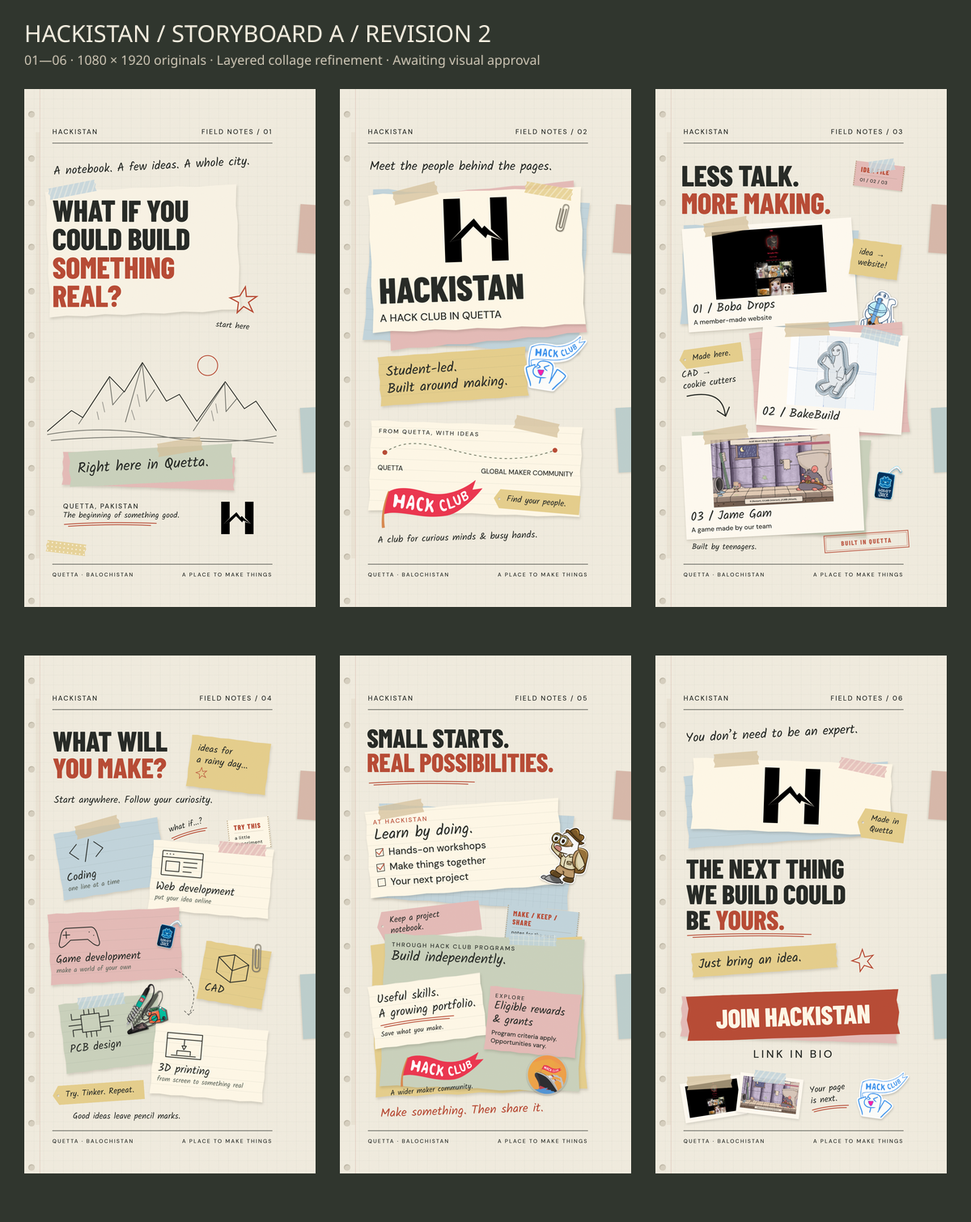
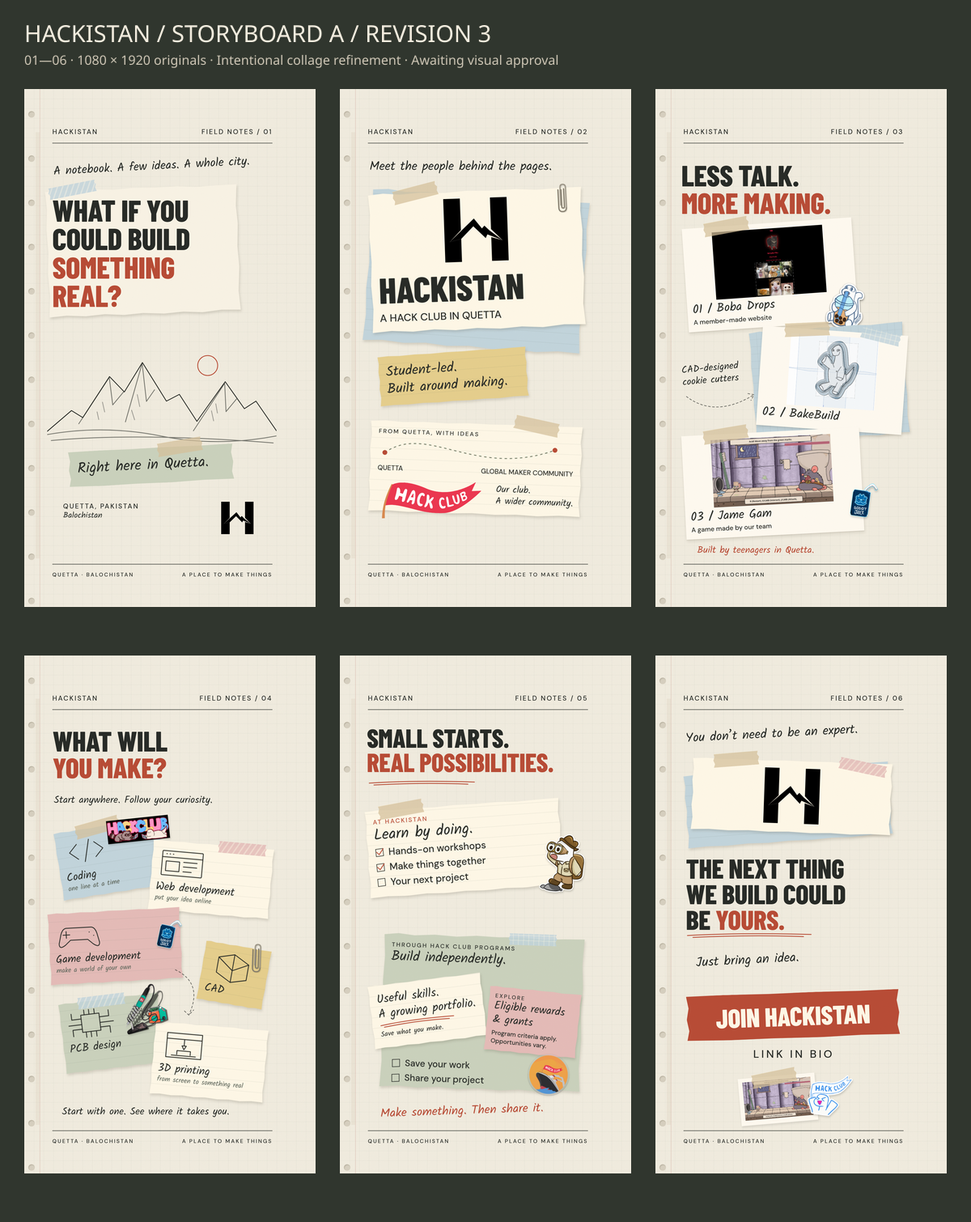
Refine storyboard collage placement and document sticker curation

diff --git a/video/src/scenes.tsx b/video/src/scenes.tsx
@@ -1,54 +1,55 @@
-import {Box,Hand,Tape,TornPaper,Mountains,Star,DrawnArrow,AssetSlot,PolaroidCard,Sketch,NotebookPage,Sticker,CheckItem,red,sage} from './components';
-import {Scrap,Washi,Clip,Stamp,Underline,Tag,PencilRoute,Ticket,colors} from './collage';
+import {Box,Hand,Tape,TornPaper,Mountains,AssetSlot,PolaroidCard,Sketch,NotebookPage,Sticker,CheckItem,red,sage} from './components';
+import {Scrap,Washi,Clip,Underline,PencilRoute,colors} from './collage';
 
 export const Hook=()=> <NotebookPage n={1}>
 <Box x={108} y={260} rotate={-3}><Hand size={44}>A notebook. A few ideas. A whole city.</Hand></Box>
 <Box x={85} y={365} w={710} rotate={-2}><Scrap color="#f9f3e5" height={470}/></Box><Washi x={88} y={352} w={180} rotate={-11} color={colors.blue}/>
 <Box x={104} y={395} w={810}><div className="display" style={{fontSize:112}}>WHAT IF YOU<br/>COULD BUILD<br/><span style={{color:red}}>SOMETHING<br/>REAL?</span></div></Box>
-<Box x={755} y={727} rotate={12}><Star size={110}/></Box><Box x={710} y={860} rotate={5}><Hand size={30}>start here</Hand></Box>
+
 <Box x={85} y={959} w={850}><Mountains/></Box>
-<Box x={141} y={1355} w={640} rotate={2}><Scrap color={colors.pink} height={123}/></Box>
+
 <Box x={165} y={1330} w={610} rotate={-3}><TornPaper color={sage}><Hand size={54}>Right here in Quetta.</Hand></TornPaper><Tape x={330}/></Box>
-<Box x={144} y={1530} w={460}><div className="label">QUETTA, PAKISTAN</div><Hand size={30}>The beginning of something good.</Hand><Underline width={350}/></Box>
-<Box x={670} y={1530} w={240}><AssetSlot asset="hackistan" label="Hackistan logo" height={120}/></Box><Washi x={80} y={1680} w={150} rotate={7} color={colors.yellow} pattern="dots"/>
+<Box x={144} y={1530} w={460}><div className="label">QUETTA, PAKISTAN</div><Hand size={30}>Balochistan</Hand></Box>
+<Box x={670} y={1530} w={240}><AssetSlot asset="hackistan" label="Hackistan logo" height={120}/></Box>
 </NotebookPage>;
 
 export const Meet=()=> <NotebookPage n={2}>
 <Box x={110} y={260}><Hand size={46}>Meet the people behind the pages.</Hand></Box>
 <Box x={103} y={394} w={805} rotate={4}><Scrap color={colors.blue} pattern="ruled" height={565}/></Box>
-<Box x={163} y={370} w={730} rotate={-5}><Scrap color={colors.pink} height={570}/></Box>
-<Box x={113} y={376} w={790} rotate={-2}><Scrap><AssetSlot asset="hackistan" label="Authentic Hackistan logo" height={235}/><div className="display" style={{fontSize:134,marginTop:24}}>HACKISTAN</div><div style={{fontSize:39,marginTop:18}}>A HACK CLUB IN QUETTA</div></Scrap><Tape x={90} rotate={-13}/><Washi x={580} y={-10} rotate={12} color={colors.yellow}/></Box>
-<Box x={805} y={420} rotate={14}><Clip/></Box>
+
+<Box x={113} y={376} w={790} rotate={-2}><Scrap><AssetSlot asset="hackistan" label="Authentic Hackistan logo" height={235}/><div className="display" style={{fontSize:134,marginTop:24}}>HACKISTAN</div><div style={{fontSize:39,marginTop:18}}>A HACK CLUB IN QUETTA</div></Scrap><Tape x={90} rotate={-13}/></Box>
+<Box x={805} y={346} rotate={-3}><Clip/></Box>
 <Box x={145} y={974} w={550} rotate={-4}><Scrap color={colors.yellow} pattern="ruled"><Hand size={51}>Student-led.<br/>Built around making.</Hand></Scrap></Box>
-<Box x={688} y={895} w={215} rotate={9}><Sticker asset="orpheus" label="Orphmoji Yippee" height={230}/></Box>
+
 <Box x={110} y={1240} w={785} rotate={2}><Scrap pattern="ruled" style={{padding:'25px 30px',height:336}}><div className="label" style={{fontSize:22}}>FROM QUETTA, WITH IDEAS</div><svg width="710" height="100" viewBox="0 0 710 100"><path d="M25 65C180-50 360 150 655 35" fill="none" stroke="#737b66" strokeWidth="3" strokeDasharray="9 10"/><circle cx="25" cy="65" r="9" fill={red}/><circle cx="655" cy="35" r="9" fill={red}/></svg><div style={{display:'flex',justifyContent:'space-between',fontSize:25}}><span>QUETTA</span><span>GLOBAL MAKER COMMUNITY</span></div></Scrap><Tape x={530} rotate={10}/></Box>
-<Box x={145} y={1455} w={390} rotate={-8}><AssetSlot asset="hackclub" label="Official Hack Club flag" height={155}/></Box>
-<Box x={570} y={1495} w={320} rotate={5}><Tag>Find your people.</Tag></Box>
-<Box x={140} y={1640} w={760} rotate={-2}><Hand size={35}>A club for curious minds & busy hands.</Hand></Box>
+<Box x={145} y={1455} w={390} rotate={-2}><AssetSlot asset="hackclub" label="Official Hack Club flag" height={130}/></Box>
+<Box x={578} y={1470} w={310} rotate={2}><Hand size={34}>Our club.<br/>A wider community.</Hand></Box>
+
 </NotebookPage>;
 
 export const Projects=()=> <NotebookPage n={3}>
-<Box x={96} y={267} w={810}><div className="display" style={{fontSize:109}}>LESS TALK.<br/><span style={{color:red}}>MORE MAKING.</span></div></Box><Box x={737} y={276} w={183} rotate={7}><Ticket title="IDEA FILE" detail="01 / 02 / 03" color={colors.pink}/></Box><Washi x={790} y={263} w={98} rotate={-8} color={colors.blue}/>
-<Box x={98} y={513} w={650} rotate={2}><Scrap color={colors.blue} height={370}/></Box>
+<Box x={96} y={267} w={810}><div className="display" style={{fontSize:109}}>LESS TALK.<br/><span style={{color:red}}>MORE MAKING.</span></div></Box>
+
 <Box x={110} y={497} w={630} rotate={-4}><PolaroidCard asset="boba" title="01 / Boba Drops" caption="A member-made website" height={250}/></Box>
-<Box x={725} y={565} w={180} rotate={8}><Scrap color={colors.yellow}><Hand size={31}>idea →<br/>website!</Hand></Scrap></Box>
-<Box x={758} y={735} w={145} rotate={12}><Sticker asset="bobaSticker" label="Boba Drops sticker" height={190}/></Box>
-<Box x={360} y={882} w={570} rotate={-4}><Scrap color={colors.pink} pattern="ruled" height={414}/></Box>
+
+<Box x={635} y={710} w={145} rotate={12}><Sticker asset="bobaSticker" label="Boba Drops sticker" height={190}/></Box>
+<Box x={360} y={882} w={570} rotate={-4}><Scrap color={colors.blue} pattern="grid" height={414}/></Box>
 <Box x={385} y={896} w={540} rotate={4}><PolaroidCard asset="bake" title="02 / BakeBuild" caption="" height={265}/></Box><Washi x={760} y={895} w={150} rotate={14} color={colors.blue} pattern="check"/>
-<Box x={103} y={953} w={235} rotate={-8}><Tag>Made here.</Tag><Hand size={34}>CAD →<br/>cookie cutters</Hand><DrawnArrow/></Box>
-<Box x={126} y={1285} w={665} rotate={3}><Scrap color={sage} height={362}/></Box>
+<Box x={104} y={1010} w={250} rotate={-5}><Hand size={36}>CAD-designed<br/>cookie cutters</Hand><PencilRoute w={275} h={130} d="M10 30Q110 120 260 45m-22-6 22 6-13 20"/></Box>
+
 <Box x={105} y={1270} w={660} rotate={-3}><PolaroidCard asset="jame" title="03 / Jame Gam" caption="A game made by our team" height={250}/></Box>
-<Box x={790} y={1370} w={130} rotate={8}><Sticker asset="godot" label="Godot Juice" height={175}/></Box>
-<Box x={625} y={1645} w={315} rotate={-4}><Stamp>BUILT IN QUETTA</Stamp></Box><Box x={135} y={1680}><Hand size={30}>Built by teenagers.</Hand></Box>
+<Box x={700} y={1435} w={130} rotate={8}><Sticker asset="godot" label="Godot Juice" height={175}/></Box>
+<Box x={155} y={1690}><Hand size={35} color={red}>Built by teenagers in Quetta.</Hand></Box>
 </NotebookPage>;
 
 const Idea=({kind,title,note,color=colors.ivory,height=250}:{kind:number;title:string;note?:string;color?:string;height?:number})=><Scrap color={color} pattern="ruled" height={height} style={{padding:23}}><Sketch kind={kind}/><Hand size={40}>{title}</Hand>{note?<Hand size={25} color="#5e665b">{note}</Hand>:null}</Scrap>;
 export const Create=()=> <NotebookPage n={4}>
 <Box x={105} y={265}><div className="display" style={{fontSize:105}}>WHAT WILL<br/><span style={{color:red}}>YOU MAKE?</span></div></Box>
-<Box x={610} y={309} w={295} rotate={7}><Scrap color={colors.yellow}><Hand size={35}>ideas for<br/>a rainy day...</Hand><Star size={45}/></Scrap></Box>
+
 <Box x={110} y={515}><Hand size={37}>Start anywhere. Follow your curiosity.</Hand></Box>
-<Box x={756} y={604} w={155} rotate={-6}><Ticket title="TRY THIS" detail="a little experiment"/></Box>
+
 <Box x={125} y={628} w={390} rotate={-9}><Idea kind={0} title="Coding" note="one line at a time" color={colors.blue} height={252}/><Tape x={80}/></Box>
+<Box x={307} y={600} w={230} rotate={-6}><Sticker asset="laptops" label="Orpheus and Heidi Laptops" height={90}/></Box>
 <Box x={468} y={700} w={448} rotate={5}><Idea kind={1} title="Web development" note="put your idea online" height={260}/><Washi x={240} y={-15} color={colors.pink}/></Box>
 <Box x={92} y={945} w={490} rotate={-3}><Idea kind={2} title="Game development" note="make a world of your own" color={colors.pink} height={265}/></Box>
 <Box x={476} y={955} w={110} rotate={12}><Sticker asset="godot" label="Godot Juice" height={150}/></Box>
@@ -56,25 +57,25 @@ export const Create=()=> <NotebookPage n={4}>
 <Box x={140} y={1270} w={370} rotate={-7}><Idea kind={4} title="PCB design" color={sage} height={260}/><Washi x={70} y={-15} color={colors.blue}/></Box>
 <Box x={475} y={1372} w={420} rotate={5}><Idea kind={5} title="3D printing" note="from screen to something real" height={270}/></Box>
 <Box x={346} y={1220} w={190} rotate={-13}><Sticker asset="solder" label="Soldering" height={180}/></Box>
-<Box x={538} y={610} rotate={-15}><Hand size={30}>what if...?</Hand><Underline width={140}/></Box>
+
 <Box x={555} y={1160}><PencilRoute w={150} h={195} d="M5 5Q110 55 55 173m-16-15 16 15 18-19"/></Box>
-<Box x={105} y={1585} w={340} rotate={-4}><Tag>Try. Tinker. Repeat.</Tag></Box>
-<Box x={180} y={1690}><Hand size={31}>Good ideas leave pencil marks.</Hand></Box>
+
+<Box x={140} y={1670}><Hand size={37}>Start with one. See where it takes you.</Hand></Box>
 </NotebookPage>;
 
 export const Opportunities=()=> <NotebookPage n={5}>
 <Box x={100} y={259} w={825}><div className="display" style={{fontSize:96}}>SMALL STARTS.<br/><span style={{color:red}}>REAL POSSIBILITIES.</span></div></Box><Box x={104} y={460}><Underline width={400}/></Box>
-<Box x={133} y={570} w={725} rotate={4}><Scrap color={colors.blue} pattern="grid" height={354}/></Box>
+
 <Box x={102} y={552} w={720} rotate={-4}><Scrap pattern="ruled"><div className="label" style={{color:red,fontSize:23}}>AT HACKISTAN</div><Hand size={56}>Learn by doing.</Hand><div style={{fontSize:36,lineHeight:1.55}}><CheckItem checked>Hands-on workshops</CheckItem><CheckItem checked>Make things together</CheckItem><CheckItem>Your next project</CheckItem></div></Scrap><Tape x={50}/></Box>
-<Box x={755} y={625} w={175} rotate={12}><Sticker asset="journal" label="Journpheus" height={240}/></Box>
-<Box x={137} y={930} w={385} rotate={-7}><Tag color={colors.pink}>Keep a project notebook.</Tag></Box>
-<Box x={615} y={938} w={267} rotate={6}><Ticket title="MAKE / KEEP / SHARE" detail="notes for the next project" color={colors.blue}/></Box>
-<Box x={123} y={1055} w={785} rotate={-2}><Scrap color={colors.yellow} height={570}/></Box>
+<Box x={742} y={660} w={175} rotate={6}><Sticker asset="journal" label="Journpheus" height={225}/></Box>
+
+
+
 <Box x={156} y={1040} w={742} rotate={2}><Scrap color={sage} height={570}><div className="label" style={{fontSize:22}}>THROUGH HACK CLUB PROGRAMS</div><Hand size={50}>Build independently.</Hand></Scrap><Washi x={460} y={-14} color={colors.blue} pattern="check"/></Box>
 <Box x={115} y={1200} w={420} rotate={-7}><Scrap pattern="ruled" height={235}><Hand size={44}>Useful skills.<br/>A growing portfolio.</Hand><Underline width={280}/><Hand size={26}>Save what you make.</Hand></Scrap></Box>
 <Box x={545} y={1240} w={340} rotate={6}><Scrap color={colors.pink} height={238} style={{padding:22}}><div className="label" style={{fontSize:20}}>EXPLORE</div><Hand size={40}>Eligible rewards<br/>& grants</Hand><div style={{fontSize:23,marginTop:9}}>Program criteria apply.<br/>Opportunities vary.</div></Scrap></Box>
-<Box x={182} y={1475} w={395} rotate={-5}><AssetSlot asset="hackclub" label="Hack Club flag" height={110}/><Hand size={27}>A wider maker community.</Hand></Box>
-<Box x={683} y={1465} w={170} rotate={8}><Sticker asset="ship" label="Ship" height={180}/></Box>
+<Box x={190} y={1490} w={435} rotate={2} style={{fontSize:34,lineHeight:1.6}}><CheckItem>Save your work</CheckItem><CheckItem>Share your project</CheckItem></Box>
+<Box x={688} y={1465} w={170} rotate={8}><Sticker asset="ship" label="Ship" height={180}/></Box>
 <Box x={150} y={1660} w={650} rotate={-2}><Hand size={45} color={red}>Make something. Then share it.</Hand></Box>
 </NotebookPage>;
 
@@ -82,14 +83,12 @@ export const Join=()=> <NotebookPage n={6}>
 <Box x={112} y={263} rotate={-3}><Hand size={47}>You don’t need to be an expert.</Hand></Box>
 <Box x={112} y={419} w={760} rotate={-4}><Scrap color={colors.blue} pattern="ruled" height={270}/></Box>
 <Box x={135} y={390} w={740} rotate={2}><Scrap><AssetSlot asset="hackistan" label="Authentic Hackistan logo" height={205}/></Scrap><Tape x={75}/><Washi x={540} y={-6} color={colors.pink} rotate={10}/></Box>
-<Box x={748} y={575} w={180} rotate={8}><Tag>Made in Quetta</Tag></Box>
+
 <Box x={113} y={740} w={810}><div className="display" style={{fontSize:101}}>THE NEXT THING<br/>WE BUILD COULD<br/>BE <span style={{color:red}}>YOURS.</span></div><Underline width={470}/></Box>
-<Box x={134} y={1085} w={540} rotate={-4}><Scrap color={colors.yellow} style={{padding:'15px 25px'}}><Hand size={48}>Just bring an idea.</Hand></Scrap></Box><Box x={723} y={1085}><Star size={90}/></Box>
-<Box x={94} y={1276} w={805} rotate={2}><Scrap color={colors.pink} height={150}/></Box>
+<Box x={150} y={1100} rotate={-3}><Hand size={48}>Just bring an idea.</Hand></Box>
+
 <Box x={116} y={1250} w={788} rotate={-2}><TornPaper color={red} style={{padding:'38px 28px',textAlign:'center'}}><div className="display" style={{fontSize:98,color:'#fff8e7'}}>JOIN HACKISTAN</div></TornPaper></Box>
 <Box x={288} y={1450} w={450}><div style={{fontSize:41,letterSpacing:8,textAlign:'center'}}>LINK IN BIO</div></Box>
-<Box x={100} y={1570} w={230} rotate={-9} style={{padding:12,background:'#fffaf0',boxShadow:'2px 5px 8px #282b2720'}}><Tape x={25} y={-16} rotate={5}/><AssetSlot asset="boba" label="Project photo" height={118}/></Box>
-<Box x={306} y={1558} w={235} rotate={7} style={{padding:12,background:'#fffaf0',boxShadow:'2px 5px 8px #282b2720'}}><AssetSlot asset="jame" label="Jame Gam photo" height={118}/><Washi x={50} y={-15} color={colors.blue} w={120}/></Box>
-<Box x={750} y={1530} w={180} rotate={8}><Sticker asset="orpheus" label="Orpheus" height={190}/></Box>
-<Box x={575} y={1585} w={150} rotate={-6}><Hand size={32}>Your page<br/>is next.</Hand><Underline width={140}/></Box>
+<Box x={312} y={1558} w={285} rotate={-5} style={{padding:14,background:'#fffaf0',boxShadow:'2px 5px 8px #282b2720'}}><AssetSlot asset="jame" label="Jame Gam photo" height={142}/><Tape x={50} y={-19}/></Box>
+<Box x={567} y={1540} w={155} rotate={8}><Sticker asset="orpheus" label="Orpheus" height={175}/></Box>
 </NotebookPage>;

diff --git a/video/src/components.tsx b/video/src/components.tsx
@@ -6,7 +6,7 @@ export const Box=({x=0,y=0,w,rotate=0,children,style={}}:{x?:number;y?:number;w?
 export const Hand=({children,size=40,color=ink}:{children:React.ReactNode;size?:number;color?:string})=><div className="hand" style={{fontSize:size,color}}>{children}</div>;
 export const Tape=({x=0,y=-24,rotate=-7}:{x?:number;y?:number;rotate?:number})=><Box x={x} y={y} w={170} rotate={rotate} style={{height:52,background:'#d6c29cbb',clipPath:'polygon(2% 0,98% 3%,96% 25%,100% 45%,97% 70%,99% 100%,0 96%,3% 72%,0 46%,3% 21%)',borderTop:'1px solid #f6e6bf'}}/>;
 export const PaperTexture=()=> <svg className="grain" width="1080" height="1920"><filter id="grain"><feTurbulence type="fractalNoise" baseFrequency=".65" numOctaves="3" seed="17" stitchTiles="stitch"/></filter><rect width="100%" height="100%" filter="url(#grain)" opacity=".45"/></svg>;
-export const NotebookPage=({n,children}:{n:number;children:React.ReactNode})=><AbsoluteFill className="page grid"><div style={{position:'absolute',left:57,top:0,height:'100%',borderLeft:'2px solid #bd716740'}}/>{Array.from({length:12},(_,i)=><div key={i} style={{position:'absolute',left:15,top:82+i*164,width:24,height:24,borderRadius:20,background:'#d7d0c0',boxShadow:'inset 2px 3px 3px #71665140'}}/>)}<div style={{position:"absolute",left:1018,top:430,width:110,height:180,rotate:"4deg",background:"#d8b9aa",boxShadow:"-3px 3px 6px #40301b24"}}/><div style={{position:"absolute",left:1028,top:1180,width:90,height:240,rotate:"-3deg",background:"#becfcd",boxShadow:"-3px 3px 6px #40301b24"}}/><div style={{position:"absolute",left:42,top:160,width:15,height:1580,background:"#a88d6e15"}}/><Box x={104} y={142} w={816}><div className="label">HACKISTAN <span style={{float:'right'}}>FIELD NOTES / 0{n}</span></div><div className="rule" style={{marginTop:24}}/></Box>{children}<Box x={104} y={1760} w={816}><div className="rule"/><div className="label" style={{marginTop:24,fontSize:20}}>QUETTA · BALOCHISTAN <span style={{float:'right'}}>A PLACE TO MAKE THINGS</span></div></Box><PaperTexture/></AbsoluteFill>;
+export const NotebookPage=({n,children}:{n:number;children:React.ReactNode})=><AbsoluteFill className="page grid"><div style={{position:'absolute',left:57,top:0,height:'100%',borderLeft:'2px solid #bd716740'}}/>{Array.from({length:12},(_,i)=><div key={i} style={{position:'absolute',left:15,top:82+i*164,width:24,height:24,borderRadius:20,background:'#d7d0c0',boxShadow:'inset 2px 3px 3px #71665140'}}/>)}<div style={{position:"absolute",left:42,top:160,width:15,height:1580,background:"#a88d6e15"}}/><Box x={104} y={142} w={816}><div className="label">HACKISTAN <span style={{float:'right'}}>FIELD NOTES / 0{n}</span></div><div className="rule" style={{marginTop:24}}/></Box>{children}<Box x={104} y={1760} w={816}><div className="rule"/><div className="label" style={{marginTop:24,fontSize:20}}>QUETTA · BALOCHISTAN <span style={{float:'right'}}>A PLACE TO MAKE THINGS</span></div></Box><PaperTexture/></AbsoluteFill>;
 export const TornPaper=({children,color='#faf6ea',style={}}:{children:React.ReactNode;color?:string;style?:React.CSSProperties})=><div className="paper" style={{background:color,padding:32,clipPath:'polygon(0 1%,18% 0,39% 1%,60% 0,82% 1%,100% 0,99% 24%,100% 51%,99% 78%,100% 99%,82% 98%,63% 100%,40% 99%,20% 100%,0 98%,1% 77%,0 52%,1% 27%)',...style}}>{children}</div>;
 export const Mountains=()=> <svg width="100%" viewBox="0 0 850 380" fill="none" stroke={ink} strokeWidth="3" strokeLinecap="round" strokeLinejoin="round"><path d="M0 310 90 233 132 259 231 107 286 164 353 55 442 198 490 173 555 273 660 126 731 226 774 198 850 308"/><path d="m117 282 113-172 13 102 40-48m7 111 62-217 16 141 30-43m144 152 116-176 5 105 39-47M0 322q211-37 420 5t430 0M15 344q330-30 823 9" opacity=".6"/><path d="m205 202 8 36m-28 0 6 28m143-92 9 44m-30 14 11 35m301-59 6 34m-22-8 8 37" opacity=".4"/><circle cx="595" cy="66" r="37" stroke={red}/></svg>;
 export const Star=({size=90}:{size?:number})=><svg width={size} height={size} viewBox="0 0 100 100"><path d="m49 5 10 31 34-7-23 25 21 28-34-11-17 25-3-35-31-9 31-13Z" fill="none" stroke={red} strokeWidth="4"/></svg>;

diff --git a/docs/STICKER_CURATION.md b/docs/STICKER_CURATION.md
@@ -1,0 +1,48 @@
+# Sticker curation — Revision 3
+
+## Acquisition status
+
+**14 selected options: 10 existing user-supplied originals, 4 pending acquisition, 0 newly downloaded files.** The review sheet is explicitly labeled with this status. No catalog screenshots, thumbnails, redrawn stickers or fabricated substitutes were used.
+
+The requested official catalog is https://stickers.hackclub.com/catalog. Fresh sandbox and executor requests returned cloud-proxy HTTP 403 (`CONNECT tunnel failed`) after the custom domain was saved in the environment draft and the user authorized access. The running environment status still reported an enforced policy with no custom host entries. Authorization is recorded; runtime propagation remains the blocker. No access restriction was bypassed.
+
+The publicly accessible [Hack Club StickersV1 README](https://github.com/hackclub/StickersV1/blob/main/README.md) identifies itself as a former official site implementation and documents the public `/api/stickers` endpoint. It points to `hackclub/stickers`, which returned repository-not-found during this inspection. No sticker image URL or artwork license could be verified through that source. No authentication credentials were requested or used.
+
+**Usage/permission note:** the user supplied the current artwork for this storyboard. That does not establish an artwork license for public distribution. Explicit reuse terms for the sticker illustrations have not been verified. Confirm applicable permission with Hack Club/artists before final publication; do not treat an application's source-code license as an artwork license. This flag applies to every candidate below.
+
+New official downloads belong in `public/assets/stickers/catalog/`. That folder currently contains only an explanatory README. Existing files remain in their original curated folders and have not been relabeled as downloads.
+
+## Candidates
+
+| Candidate | Current file / source | Recommended placement | Status |
+|---|---|---|---|
+| Orpheus and Heidi Laptops | [Orpheus and Heidi Laptops.webp](../public/assets/stickers/Orpheus%20and%20Heidi%20Laptops.webp) · [original user upload](https://github.com/WockoPayaz/hackistan-intro-reel/blob/07f7dec/public/assets/Orpheus%20and%20Heidi%20Laptops.webp) | 04 · coding / web | user-supplied; catalog verification pending |
+| Godot Juice | [Godot Juice.webp](../public/assets/stickers/Godot%20Juice.webp) · [original user upload](https://github.com/WockoPayaz/hackistan-intro-reel/blob/07f7dec/public/assets/Godot%20Juice.webp) | 03 / 04 · games | user-supplied; catalog verification pending |
+| Boba Drops | [Boba Drops.webp](../public/assets/stickers/Boba%20Drops.webp) · [original user upload](https://github.com/WockoPayaz/hackistan-intro-reel/blob/07f7dec/public/assets/Boba%20Drops.webp) | 03 · website | user-supplied; catalog verification pending |
+| Soldering | [Soldering.webp](../public/assets/stickers/Soldering.webp) · [original user upload](https://github.com/WockoPayaz/hackistan-intro-reel/blob/07f7dec/public/assets/Soldering.webp) | 04 · electronics | user-supplied; catalog verification pending |
+| Orpheus Skateboarding PCB | [Official catalog](https://stickers.hackclub.com/catalog); exact asset URL unverified | 04 · PCB alternative | awaiting catalog access or manual download |
+| Construct Orpheus | [Official catalog](https://stickers.hackclub.com/catalog); exact asset URL unverified | 04 · physical making | awaiting catalog access or manual download |
+| Journpheus | [Journpheus.webp](../public/assets/stickers/Journpheus.webp) · [original user upload](https://github.com/WockoPayaz/hackistan-intro-reel/blob/07f7dec/public/assets/Journpheus.webp) | 05 · project notebook | user-supplied; catalog verification pending |
+| Ship | [ship.webp](../public/assets/stickers/ship.webp) · [original user upload](https://github.com/WockoPayaz/hackistan-intro-reel/blob/07f7dec/public/assets/ship.webp) | 05 · share checklist | user-supplied; catalog verification pending |
+| Orphmoji Yippee | [orphmoji yippee.webp](../public/assets/stickers/orphmoji%20yippee.webp) · [original user upload](https://github.com/WockoPayaz/hackistan-intro-reel/blob/07f7dec/public/assets/orphmoji%20yippee.webp) | 06 · familiar character | user-supplied; catalog verification pending |
+| Orpheus Flag | [flag-orpheus-left.png](../public/assets/stickers/flag-orpheus-left.png) · [original user upload](https://github.com/WockoPayaz/hackistan-intro-reel/blob/07f7dec/public/assets/flag-orpheus-left.png) | 02 · flag alternative | user-supplied; catalog verification pending |
+| Game Lab | [Official catalog](https://stickers.hackclub.com/catalog); exact asset URL unverified | 04 · game alternative | awaiting catalog access or manual download |
+| Coding with Balloon | [Official catalog](https://stickers.hackclub.com/catalog); exact asset URL unverified | 04 · coding alternative | awaiting catalog access or manual download |
+| Nest Hatched Smolpheus | [Nest Hatched Smolpheus.webp](../public/assets/stickers/Nest%20Hatched%20Smolpheus.webp) · [original user upload](https://github.com/WockoPayaz/hackistan-intro-reel/blob/07f7dec/public/assets/Nest%20Hatched%20Smolpheus.webp) | 06 · optional beginner motif | user-supplied; catalog verification pending |
+| Pathfinder Orpheus | [Pathfinder Orpheus.png](../public/assets/stickers/Pathfinder%20Orpheus.png) · [original user upload](https://github.com/WockoPayaz/hackistan-intro-reel/blob/07f7dec/public/assets/Pathfinder%20Orpheus.png) | 05 · optional exploration motif | user-supplied; catalog verification pending |
+
+## Selection discipline
+
+Only relevant supplied artwork is placed: Boba with its website, Godot at the game/photo border, the laptops on the coding note, soldering at the PCB note, Journpheus holding the workshop checklist edge, Ship next to save/share tasks, and Yippee touching the final project callback. The official Hack Club flag appears once, in scene 2. Alternatives on this sheet are not automatically added to the pages.
+
+The selected images preserve original colors, proportions and transparency. Shadows and rotation are composition styles; no source images were modified. Jame Gam's low-resolution screenshot is a separate project-media limitation.
+
+## Once catalog access applies
+
+1. Load the catalog or its documented public API once; inspect the selected entries and their usage terms.
+2. Resolve full original download URLs for the short list only. Request any necessary CDN domains through settings; never bypass restrictions.
+3. Save usable original PNG/WebP/SVG files under `public/assets/stickers/catalog/`, retaining attribution and per-file source URLs, dimensions and hashes.
+4. Mark unavailable originals for manual download; do not use catalog screenshots or thumbnail upscales.
+5. Regenerate the candidate sheet and compare replacement artwork before changing scene placements.
+
+[Candidate sheet](../output/stickers/candidate-sheet.png) · [Machine-readable provenance](../output/stickers/candidates.json)

diff --git a/docs/DECORATION_AUDIT.md b/docs/DECORATION_AUDIT.md
@@ -1,0 +1,18 @@
+# Revision 3 — purpose and placement audit
+
+Reviewed the previous six frames, current scene code and all three supplied reference photographs before changes. The references support objects attached at their edges, concise context around photographs, and deliberate overlap. They do not justify filling every blank space.
+
+## Shared materials
+
+Graph paper, grain, punched margin and page folio establish the same notebook. Removed both repeated right-edge colored tabs from the shared page component. Paper shadows follow individual objects. Source artwork remains unchanged. Tape crosses paper edges; no tape is added as an isolated flourish. Paper clips straddle a paper edge. Decorative opacity never controls essential text.
+
+| Page | Retained elements and purpose | Removed or corrected |
+|---|---|---|
+| 1 — minimal hook | Taped headline sheet establishes focus; Quetta mountain drawing locates the story; taped location label and authentic H reinforce place/identity. | Removed floating star/start-here note, loose dotted washi, pink location backing, generic tiny slogan and extra underline. |
+| 2 — logo focus | One ruled backing sheet is clipped behind the identity sheet; a student-led note explains the club; a taped connection insert carries the single official flag and community context. | Removed extra pink backing, redundant character/flag repetition, surplus logo-sheet tape, filler tag and footer slogan. Clip moved to top edge to physically join the sheets. |
+| 3 — real projects | Three taped Polaroids remain dominant. Boba overlaps the website's right paper margin; Godot touches the game border. Drafting-grid paper belongs behind the CAD screenshot; the CAD annotation points right toward BakeBuild. | Removed IDEA FILE ticket, its tape, idea-to-website filler memo, repeated photo backing colors, redundant Made here tag and stamp. No sticker covers project image content. |
+| 4 — brainstorming | Coding, web, game, CAD, PCB and printing retain different paper sizes. Laptops attach to the coding note's upper edge, Godot sits on the game note, soldering touches PCB paper. Tape anchors code/web/PCB sheets; clip holds CAD. Pencil route connects related making topics. | Removed rainy-day memo, TRY THIS ticket, what-if underline, repeated slogan tag and decorative filler. Retained only useful captions and one invitation at the foot. |
+| 5 — plans and opportunities | Workshop checklist is held by tape, with Journpheus on its outside edge. Program grouping contains skills/portfolio and eligibility notes; Ship is adjacent to save/share tasks. Essential qualifications remain visible. | Removed extra blue/yellow backing sheets, generic notebook tag, MAKE/KEEP/SHARE ticket and redundant Hack Club flag. Local activities and wider programs remain clearly separated. |
+| 6 — clean closing | Taped logo with one backing sheet, bold message, plain handwritten invitation, red CTA and link-in-bio. A single taped Jame Gam photo and familiar Orpheus form one callback cluster. | Removed location tag, floating star, yellow invitation scrap, pink CTA backing, second project photo and filler “Your page is next” note. |
+
+Density: minimal opening → moderate identity → rich project evidence → energetic ideas → organized plans → clean closing. No Phase B timing or animation has been added.

diff --git a/README.md b/README.md
@@ -1,10 +1,10 @@
 # Hackistan — scrapbook reel
 
-**Phase A, revision 2: awaiting storyboard approval.** Six static designs, not the final animated video. All work is on `feature/hackistan-intro-reel`; nothing is merged into main.
+**Phase A, revision 3: awaiting storyboard approval.** Six static designs, not the final animated video. All work is on `feature/hackistan-intro-reel`; nothing is merged into main.
 
 ## Review in Chrome
 
-**Rendered and inspected:** the revised six PNGs and contact sheet are available below. This pass adds layered torn papers, patterned washi, handwritten tags, larger project images, an organic idea board and a redesigned opportunities collage.
+**Rendered and inspected:** the revised six PNGs and contact sheet are available below. This pass removes repeated edge tabs and filler, anchors tape to objects, connects stickers to specific content, and gives the opening and closing more breathing room.
 
 Open [the contact sheet](output/storyboards/contact-sheet.png), then tap a full-size page:
 
@@ -47,3 +47,5 @@ The fonts are self-hosted through npm: Barlow Condensed (display), Kalam (annota
 The original narration and 7/8/13/12/12/8-second scene plan are preserved in `video/src/config.ts`. After approval, implement the six-scene 1800-frame timeline at 30 FPS, physical paper transitions and optional user-supplied audio/captions. Attempt cloud H.264 MP4 rendering with AAC when audio is supplied. Verify dimensions, duration, encoding and actual file existence. If cloud video rendering is unreliable, add a manually triggered GitHub Actions render workflow with a downloadable artifact. No final MP4 or Phase B workflow is claimed in Phase A.
 
 [Art direction and motion plan](docs/STORYBOARD.md) · [Validation](docs/VALIDATION.md)
+
+[Sticker curation and access status](docs/STICKER_CURATION.md) · [Sticker candidate sheet](output/stickers/candidate-sheet.png) · [Decoration audit](docs/DECORATION_AUDIT.md)

diff --git a/docs/VALIDATION.md b/docs/VALIDATION.md
@@ -25,3 +25,13 @@ Reproduce from `video/`: `npm ci`, `npm run typecheck`, `npm run storyboards`. T
 - Reusable `Scrap`, `Washi`, `Clip`, `Stamp`, `Underline`, `Tag` and `PencilRoute` components add deterministic, static collage materials. No original uploaded image files changed.
 - The three reference images arrived in remote commit `aa89cc3` during work. The local refinement commit was rebased onto those uploads without changing them. All three were visually studied, and original ticket fragments were added to scenes 3–5 to complement the layered paper and sticker arrangements. Jame Gam retains the supplied low-resolution screenshot.
 - No Phase B animation, MP4 or merge into main.
+
+
+## Revision 3 — 14 November 2026
+
+- TypeScript and six-page Chromium render passed after the intentional-decoration pass.
+- All six final frames and the contact sheet were visually inspected for clipping, typography, project visibility, purposeful overlaps and notebook continuity. The separate candidate sheet was also inspected.
+- Removed shared edge tabs, unattached tape, filler tickets and redundant repeated logo/decorations; see `DECORATION_AUDIT.md` for scene-by-scene reasoning.
+- Catalog acquisition remains blocked by cloud-proxy 403 despite saved domain and user authorization. Running policy has not applied the domain. `STICKER_CURATION.md` records exact limits and usage-rights uncertainty.
+- Candidate sheet explicitly distinguishes 10 existing supplied originals, 4 pending artwork slots, and zero new downloads. This is not a claimed successful catalog acquisition.
+- Original image assets remain unchanged. No animation, MP4 or main-branch merge.

diff --git a/docs/ASSETS.md b/docs/ASSETS.md
@@ -27,3 +27,7 @@ No required logo or project placeholder remains in the rendered pages. The reusa
 Jame Gam is low resolution and is displayed with its original framing. A larger original would improve final-video clarity. Small text within project screenshots is documentary detail, not essential reel copy. No AI enlargement or fake detail was added.
 
 Mountain silhouettes, notebook sketches, stationery and grain are original deterministic decorations. The Quetta-to-community dotted line is conceptual, not a geographic map.
+
+## Revision 3 curation
+
+See [STICKER_CURATION.md](STICKER_CURATION.md) and `output/stickers/candidates.json` for a 14-option selection, source/provenance metadata, four acquisition gaps and usage-rights notes. No new catalog files have been downloaded; the folder `stickers/catalog/` is reserved pending cloud network application.

diff --git a/output/storyboards/README.md b/output/storyboards/README.md
@@ -1,6 +1,6 @@
-# Hackistan · Phase A · Revision 2
+# Hackistan · Phase A · Revision 3
 
-Refined toward a richer, layered scrapbook: larger overlapping project photographs, varied idea scraps, paper tags, patterned washi, paper clips and integrated authentic stickers.
+Refined for intentional composition: removed filler and repeated tabs, anchored tape to objects, tied stickers to their subjects, and simplified the opening and closing.
 
 Six static pages rendered at **1080 × 1920** using Remotion and installed Chromium. No animation or final MP4 has been produced. Open any image below in GitHub to inspect it; use GitHub's download button for the original PNG.
 

diff --git a/public/assets/stickers/catalog/README.md b/public/assets/stickers/catalog/README.md
@@ -1,0 +1,5 @@
+# Official catalog downloads
+
+Reserved for original artwork downloaded directly from the official catalog after access succeeds. **No new images have been downloaded yet.** Cloud-proxy requests to https://stickers.hackclub.com/catalog returned HTTP 403 even after the domain was saved in the environment draft. The running network policy has not applied that custom domain.
+
+Existing user-supplied assets remain in the parent directory, with their original bytes and names. They are not presented as newly fetched catalog files. See `docs/STICKER_CURATION.md` and `output/stickers/candidates.json` for provenance and the short list.
